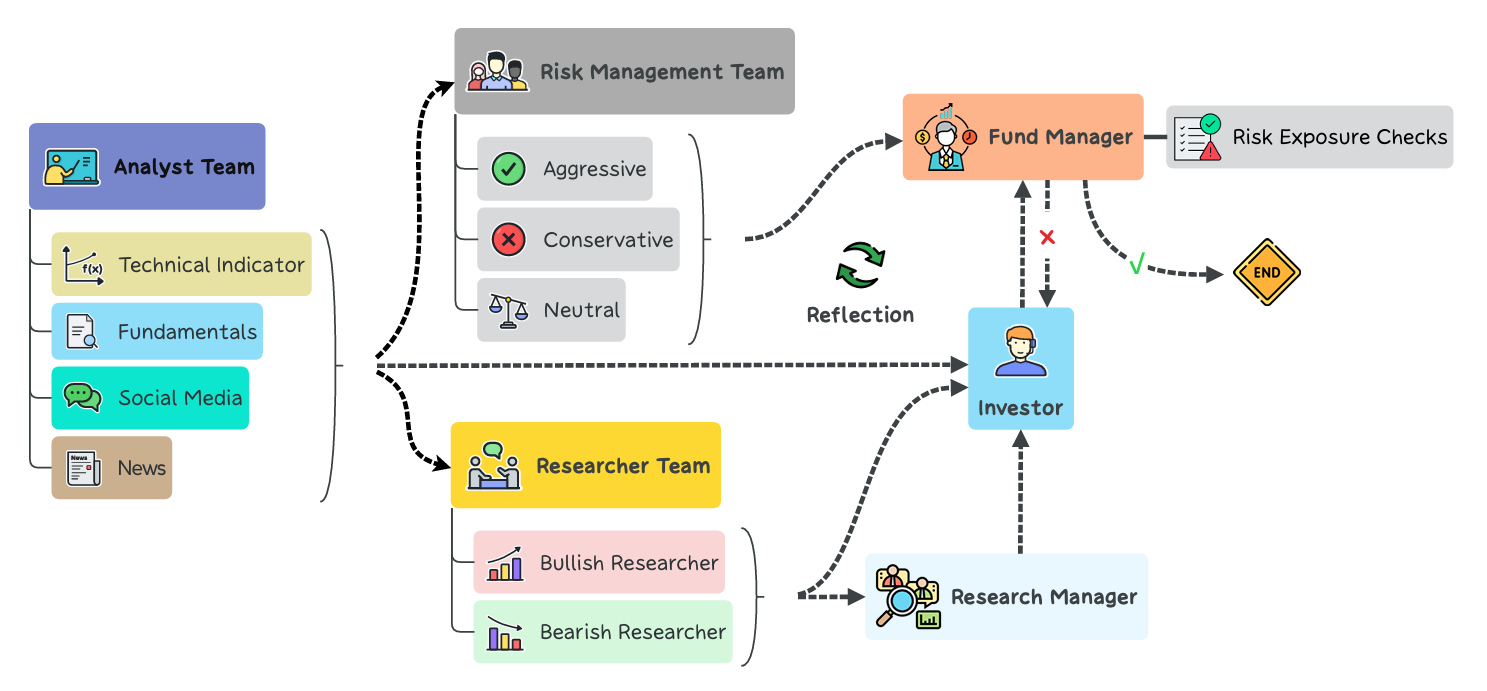
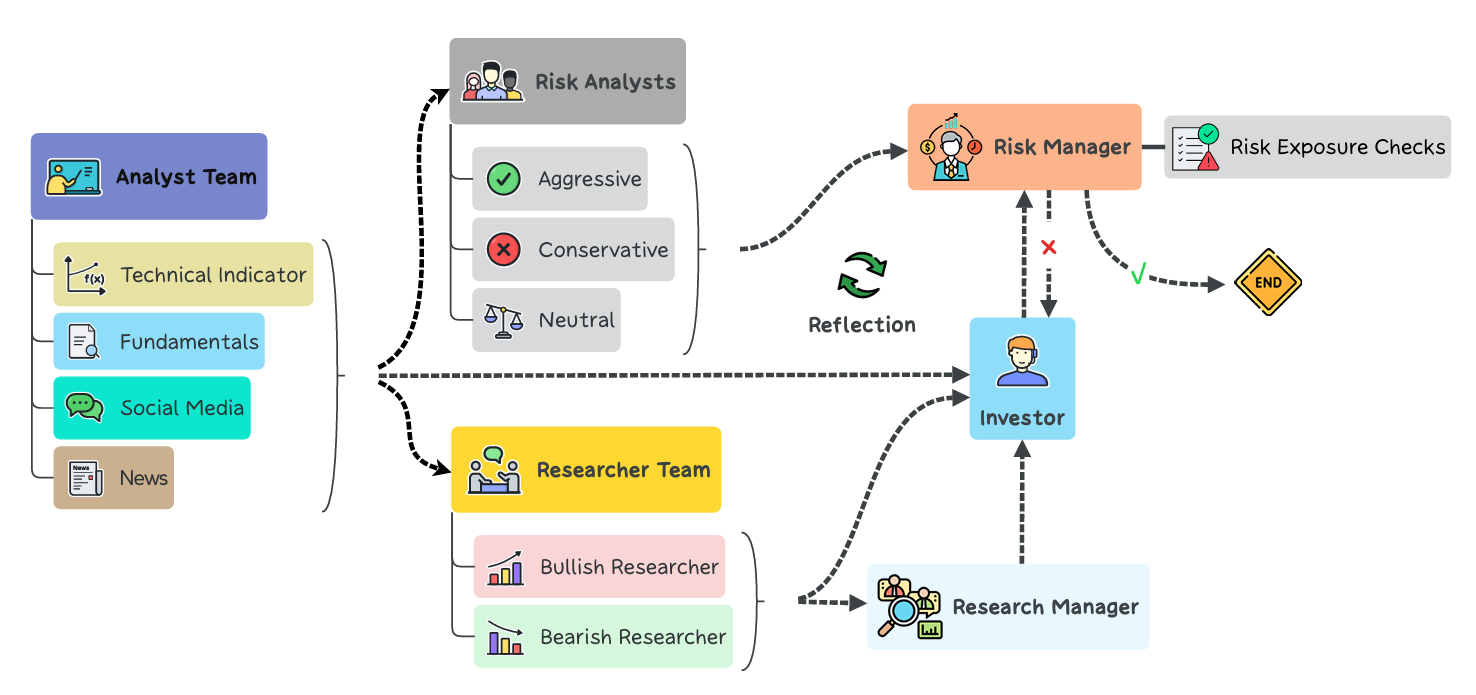
version2.0

diff --git a/index.html b/index.html
@@ -148,21 +148,41 @@
   <div class="container is-max-desktop">
     <div class="columns is-centered has-text-centered">
       <div class="column is-four-fifths">
-        <h2 class="title is-3">Method</h2>
+        <h2 class="title is-3">Framework</h2>
         <div class="content has-text-justified">
           <p>
             <b>InvestAgents Overall Framework.</b> The framework bridges existing gaps by emulating multi-agent decision-making processes of professional trading teams. It incorporates specialized agents tailored for distinct trading functions, inspired by the organizational structures of institutional trading firms.
-            and an LLM.
           </p>
 
           <img src="static/images/overview.png" alt="MY ALT TEXT">
 
           <ul>
-            <li><strong>Analyst Team.</strong> Collect multi-source heterogeneous data and produce objective analytical reports.</li>
-            <li><strong>Researcher Team.</strong> Using these reports as evidence, bullish and bearish researchers engage in debates to uncover in-depth insights on investment assets and the research manager summarizes key debate points and proposes an investment plan.</li>
-            <li><strong>Investor.</strong> Draft a trading proposal by integrating the critical arguments from both bullish and bearish researchers along with the research manager's investment plan.</li>
-            <li><strong>Risk Management Team.</strong> Risk analysts with aggressive, conservative, and neutral investment stances debate potential risks of the assets, leveraging the analytical reports as evidence.</li>
-            <li><strong>Fund Manager.</strong> Synthesize the risk analysts' key arguments, refine the trading proposal, and finalize the trading decision.</li>
+            <li><strong>Analyst Team.</strong> Collect multi-source heterogeneous data and produces objective analytical reports.</li>
+            <li><strong>Researcher Team.</strong> Using preprocessed data and analytical reports as evidence, bullish and bearish researchers engage in debates to uncover in-depth insights on investment assets. The research manager then summarizes key debate points and proposes investment recommendations.</li>
+            <li><strong>Investor.</strong> Draft a investment plan by integrating the preprocessed data, analytical reports, the critical debate records from both bullish and bearish researchers along with the research manager's investment recommendation, and submit it to risk manager for risk review.</li>
+            <li><strong>Risk Management Team.</strong> Risk analysts with aggressive, conservative, and neutral investment stances debate potential risks of the assets, leveraging the analytical reports as foundational evidence.</li>
+            <li><strong>Risk Manager.</strong> Combine the key arguments of the risk analysts and the risk exposure check results (such as the maximum drawdown threshold, stop loss order, etc.) to conduct risk assessment and make investment plan adjustment suggestions to the investor.</li>
+          </ul>
+          <!-- communication protocol -->
+        </div>
+      </div>
+    </div>
+  </div>
+</section>
+
+<section class="section hero">
+  <div class="container is-max-desktop">
+    <div class="columns is-centered has-text-centered">
+      <div class="column is-four-fifths">
+        <h2 class="title is-3">Structured Communication Protocol</h2>
+        <div class="content has-text-justified">
+          <p>
+            InvestAgents introduces a structured communication protocol for managing agent interactions, in which agents communicate primarily via structured documents and standardized diagrams (e.g., flowcharts, sequence diagrams):
+          </p>
+          <ul>
+            <li><strong>JSON Schema–based output definitions.</strong> Collect multi-source heterogeneous data and produces objective analytical reports.</li>
+            <li><strong>Global publish-subscribe information pool.</strong> Using preprocessed data and analytical reports as evidence, bullish and bearish researchers engage in debates to uncover in-depth insights on investment assets. The research manager then summarizes key debate points and proposes investment recommendations.</li>
+            <li><strong>Dependency-driven execution.</strong> Draft a investment plan by integrating the preprocessed data, analytical reports, the critical debate records from both bullish and bearish researchers along with the research manager's investment recommendation, and submit it to risk manager for risk review.</li>
           </ul>
           <!-- communication protocol -->
         </div>
